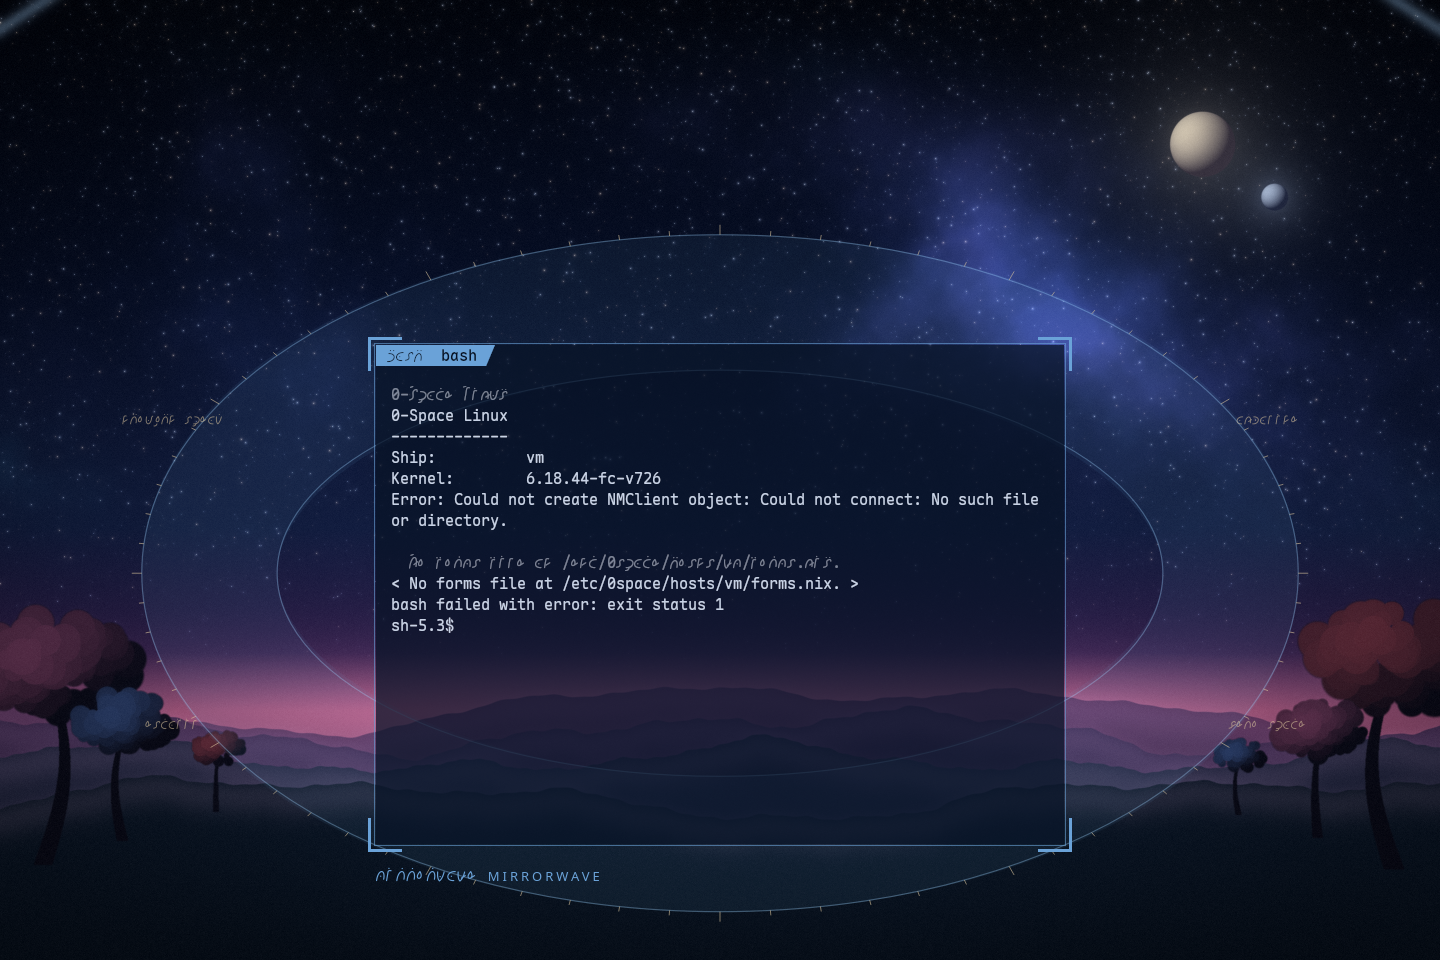
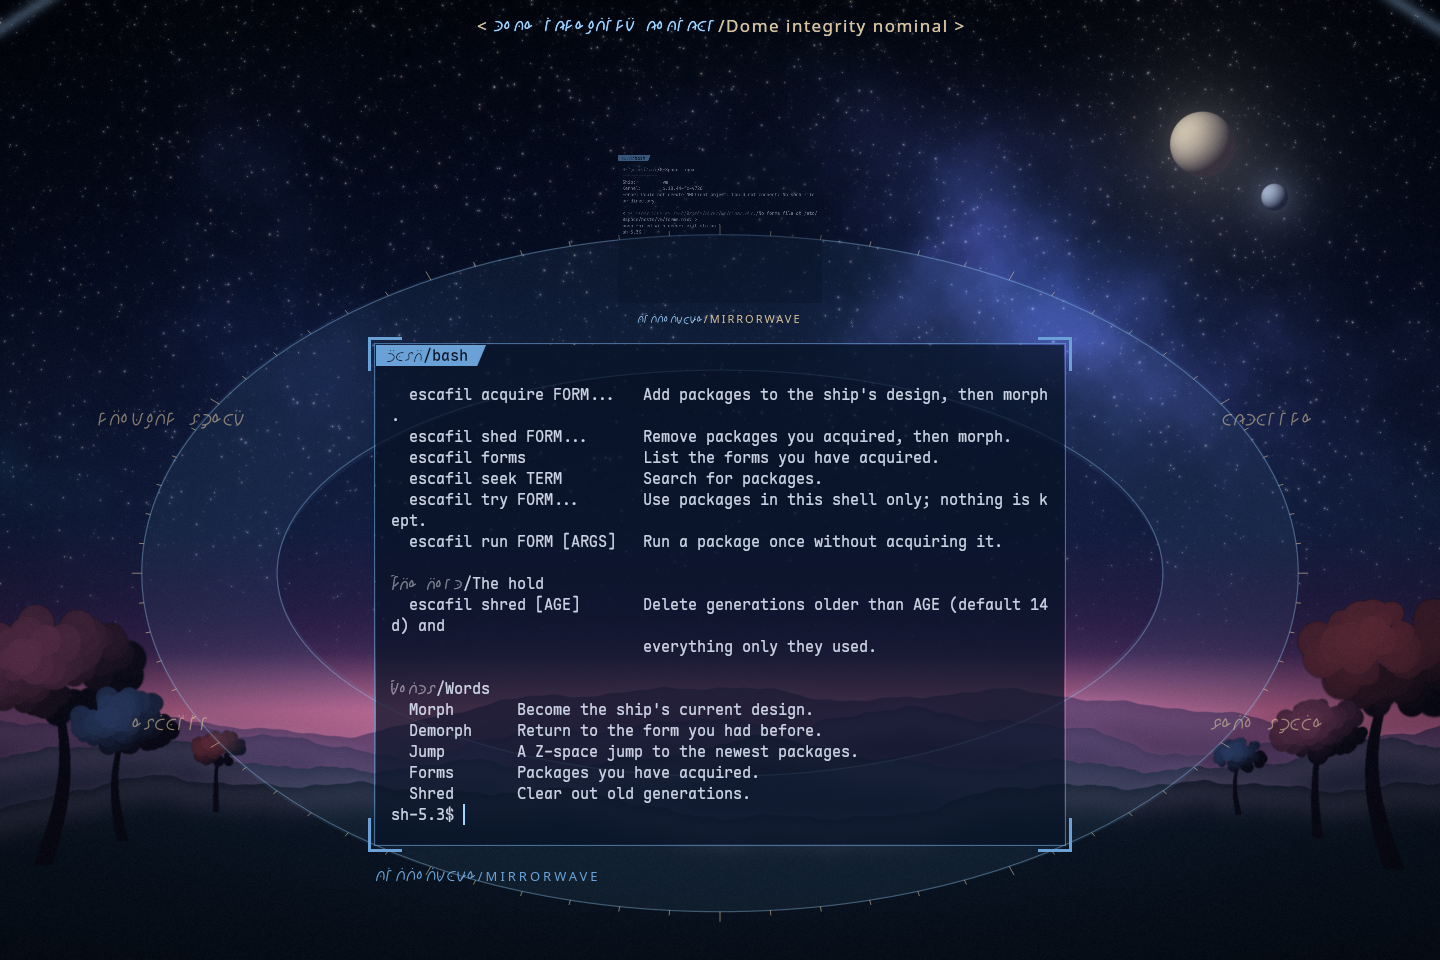
Write the script as <Andalite>/English everywhere; drop the mass call
Window names, thought-speak, Mirrorwave's tab titles and escafil's headings
and messages are now one line: the Andalite translation, a slash, then the
English. Mirrorwave keeps the name but loses the broadcast binding and the
shared instance it needed.

Claude-Session: https://claude.ai/code/session_011dUntPzwWpAttCTz3XkaVS

diff --git a/shell/shell.qml b/shell/shell.qml
@@ -46,6 +46,43 @@ ShellRoot {
         renderType: Text.NativeRendering
     }
 
+    // One line, Andalite then English: <script>/English
+    component Translated: Row {
+        id: tr
+        property string text: ""
+        property real glyph: 8
+        property color scriptInk: root.glass
+        property color ink: root.furTan
+        property int size: 13
+        property real letterSpacing: 0
+        property bool upper: false
+        property string before: ""
+        property string after: ""
+        property bool outlined: false
+        spacing: 0
+        TranslatedPlain { row: tr; text: tr.before; visible: text !== "" }
+        Script {
+            text: tr.text.toLowerCase()
+            glyph: tr.glyph
+            ink: tr.scriptInk
+            style: tr.outlined ? Text.Outline : Text.Normal
+            styleColor: root.skyHigh
+            anchors.verticalCenter: parent.verticalCenter
+        }
+        TranslatedPlain { row: tr; text: "/" + (tr.upper ? tr.text.toUpperCase() : tr.text) + tr.after }
+    }
+
+    // The English half of a Translated line.
+    component TranslatedPlain: Text {
+        required property Item row
+        color: row.ink
+        font.pixelSize: row.size
+        font.letterSpacing: row.letterSpacing
+        style: row.outlined ? Text.Outline : Text.Normal
+        styleColor: root.skyHigh
+        anchors.verticalCenter: parent.verticalCenter
+    }
+
     // ------------------------------------------------------------ thought-speak
     ListModel { id: thoughts }
 
@@ -404,15 +441,7 @@ ShellRoot {
                             x: 0
                             y: parent.height + 20
                             spacing: 10
-                            Script { text: tile.label; glyph: 9; ink: root.furBlue; anchors.verticalCenter: parent.verticalCenter }
-                            Text {
-                                text: tile.label
-                                color: root.furBlue
-                                font.pixelSize: 13
-                                font.letterSpacing: 3
-                                font.capitalization: Font.AllUppercase
-                                anchors.verticalCenter: parent.verticalCenter
-                            }
+                            Translated { text: tile.label; glyph: 9; scriptInk: root.furBlue; ink: root.furBlue; size: 13; letterSpacing: 3; upper: true }
                         }
 
                         Column {
@@ -420,19 +449,13 @@ ShellRoot {
                             anchors.horizontalCenter: parent.horizontalCenter
                             y: tile.labelAbove ? -implicitHeight - 9 : parent.height + 9
                             spacing: 2
-                            Script {
+                            Translated {
                                 anchors.horizontalCenter: parent.horizontalCenter
                                 text: tile.label
                                 glyph: 6
-                                ink: root.glass
-                            }
-                            Text {
-                                anchors.horizontalCenter: parent.horizontalCenter
-                                text: tile.label
-                                color: root.furTan
-                                font.pixelSize: 11
-                                font.letterSpacing: 2
-                                font.capitalization: Font.AllUppercase
+                                size: 11
+                                letterSpacing: 2
+                                upper: true
                             }
                         }
                     }
@@ -465,20 +488,15 @@ ShellRoot {
                             required property string line
                             anchors.horizontalCenter: parent.horizontalCenter
                             spacing: 1
-                            Script {
+                            Translated {
                                 anchors.horizontalCenter: parent.horizontalCenter
-                                text: line.toLowerCase().slice(0, 48)
-                                glyph: 7
-                                ink: root.glass
-                            }
-                            Text {
-                                anchors.horizontalCenter: parent.horizontalCenter
-                                text: "< " + line + " >"
-                                color: root.furTan
-                                font.pixelSize: 17
-                                font.letterSpacing: 1.5
-                                style: Text.Outline
-                                styleColor: root.skyHigh
+                                text: line
+                                glyph: 9
+                                size: 17
+                                letterSpacing: 1.5
+                                before: "< "
+                                after: " >"
+                                outlined: true
                             }
                         }
                     }

diff --git a/mirrorwave/tab_bar.py b/mirrorwave/tab_bar.py
@@ -1,4 +1,4 @@
-"""Mirrorwave's tab bar: every title in Andalite, then in English.
+"""Mirrorwave's tab bar: every title as Andalite/English.
 
 The script font keeps a copy of its letters at U+100000 + the letter, and
 Mirrorwave maps only that range to it, so the translation and the English
@@ -14,5 +14,5 @@ def andalite(text):
 
 
 def draw_tab(draw_data, screen, tab, before, max_title_length, index, is_last, extra_data):
-    tab = tab._replace(title=f'{andalite(tab.title)}  {tab.title}')
+    tab = tab._replace(title=f'{andalite(tab.title)}/{tab.title}')
     return draw_tab_with_powerline(draw_data, screen, tab, before, max_title_length, index, is_last, extra_data)

diff --git a/README.md b/README.md
@@ -118,13 +118,11 @@ home's trees) runs through everything you see:
 
 The ship's terminal, named for the Andalite mass call. kitty is the engine
 underneath, so nothing is compiled; Mirrorwave is its own name and window,
-the Andalite look and these:
+and the Andalite look:
 
-- **Translated titles.** Every tab title is written in the script, then in
-  English. escafil does the same in Mirrorwave: a faint Andalite line above
-  each heading and each thought-speak line.
-- **Mass call** (**Ctrl+Alt+M**): what you type goes to every Mirrorwave
-  window at once. All windows share one instance so the call reaches them all.
+- **Andalite/English.** Tab titles read `<script>/bash`. escafil does the
+  same in Mirrorwave: `<script>/0-Space Linux`, `< <script>/Morph complete >`.
+  In a text console or another terminal it prints only the English.
 - **Thought-speak when work finishes**: a command that takes more than ten
   seconds tells you when it's done, if you've looked away.
 - **See-through** over the Dome.
@@ -143,8 +141,11 @@ drawn by `tools/make-script-font.py`. Every letter grows from one of eight
 forms (crescents, the tail's S-curve, a cloven hoof, a teardrop, an arch, a
 bowl, a bladed spine) and is told apart by its marks: stalk eyes, a core dot,
 a slash, a trailing tail. Capitals are taller, with a crown stroke. Anything
-written in it is English underneath, so you can learn to read it. The shell's
-labels and thought-speak use the same font.
+written in it is English underneath, so you can learn to read it.
+
+Everywhere it appears, it's a translation beside the English, written
+`<script>/English`: window names, thought-speak, Mirrorwave's tabs and
+escafil's headings.
 
 ![The script](docs/script.png)
 
@@ -192,8 +193,8 @@ Not yet tested:
 - A complete install, start to finish. The test VM couldn't reach the cache
   through the sandbox's network.
 - Real hardware: the Framework's Wi-Fi, graphics, suspend and the idle lock.
-- The keybindings (they need real input), including the mass call and
-  Mirrorwave's English/Andalite switch.
+- The keybindings (they need real input), including Mirrorwave's
+  English/Andalite switch.
 - The boot menu, boot splash, login screen and GTK/Qt apps haven't been seen
   running yet; they build, but the test VM boots the installer, not an
   installed system.
